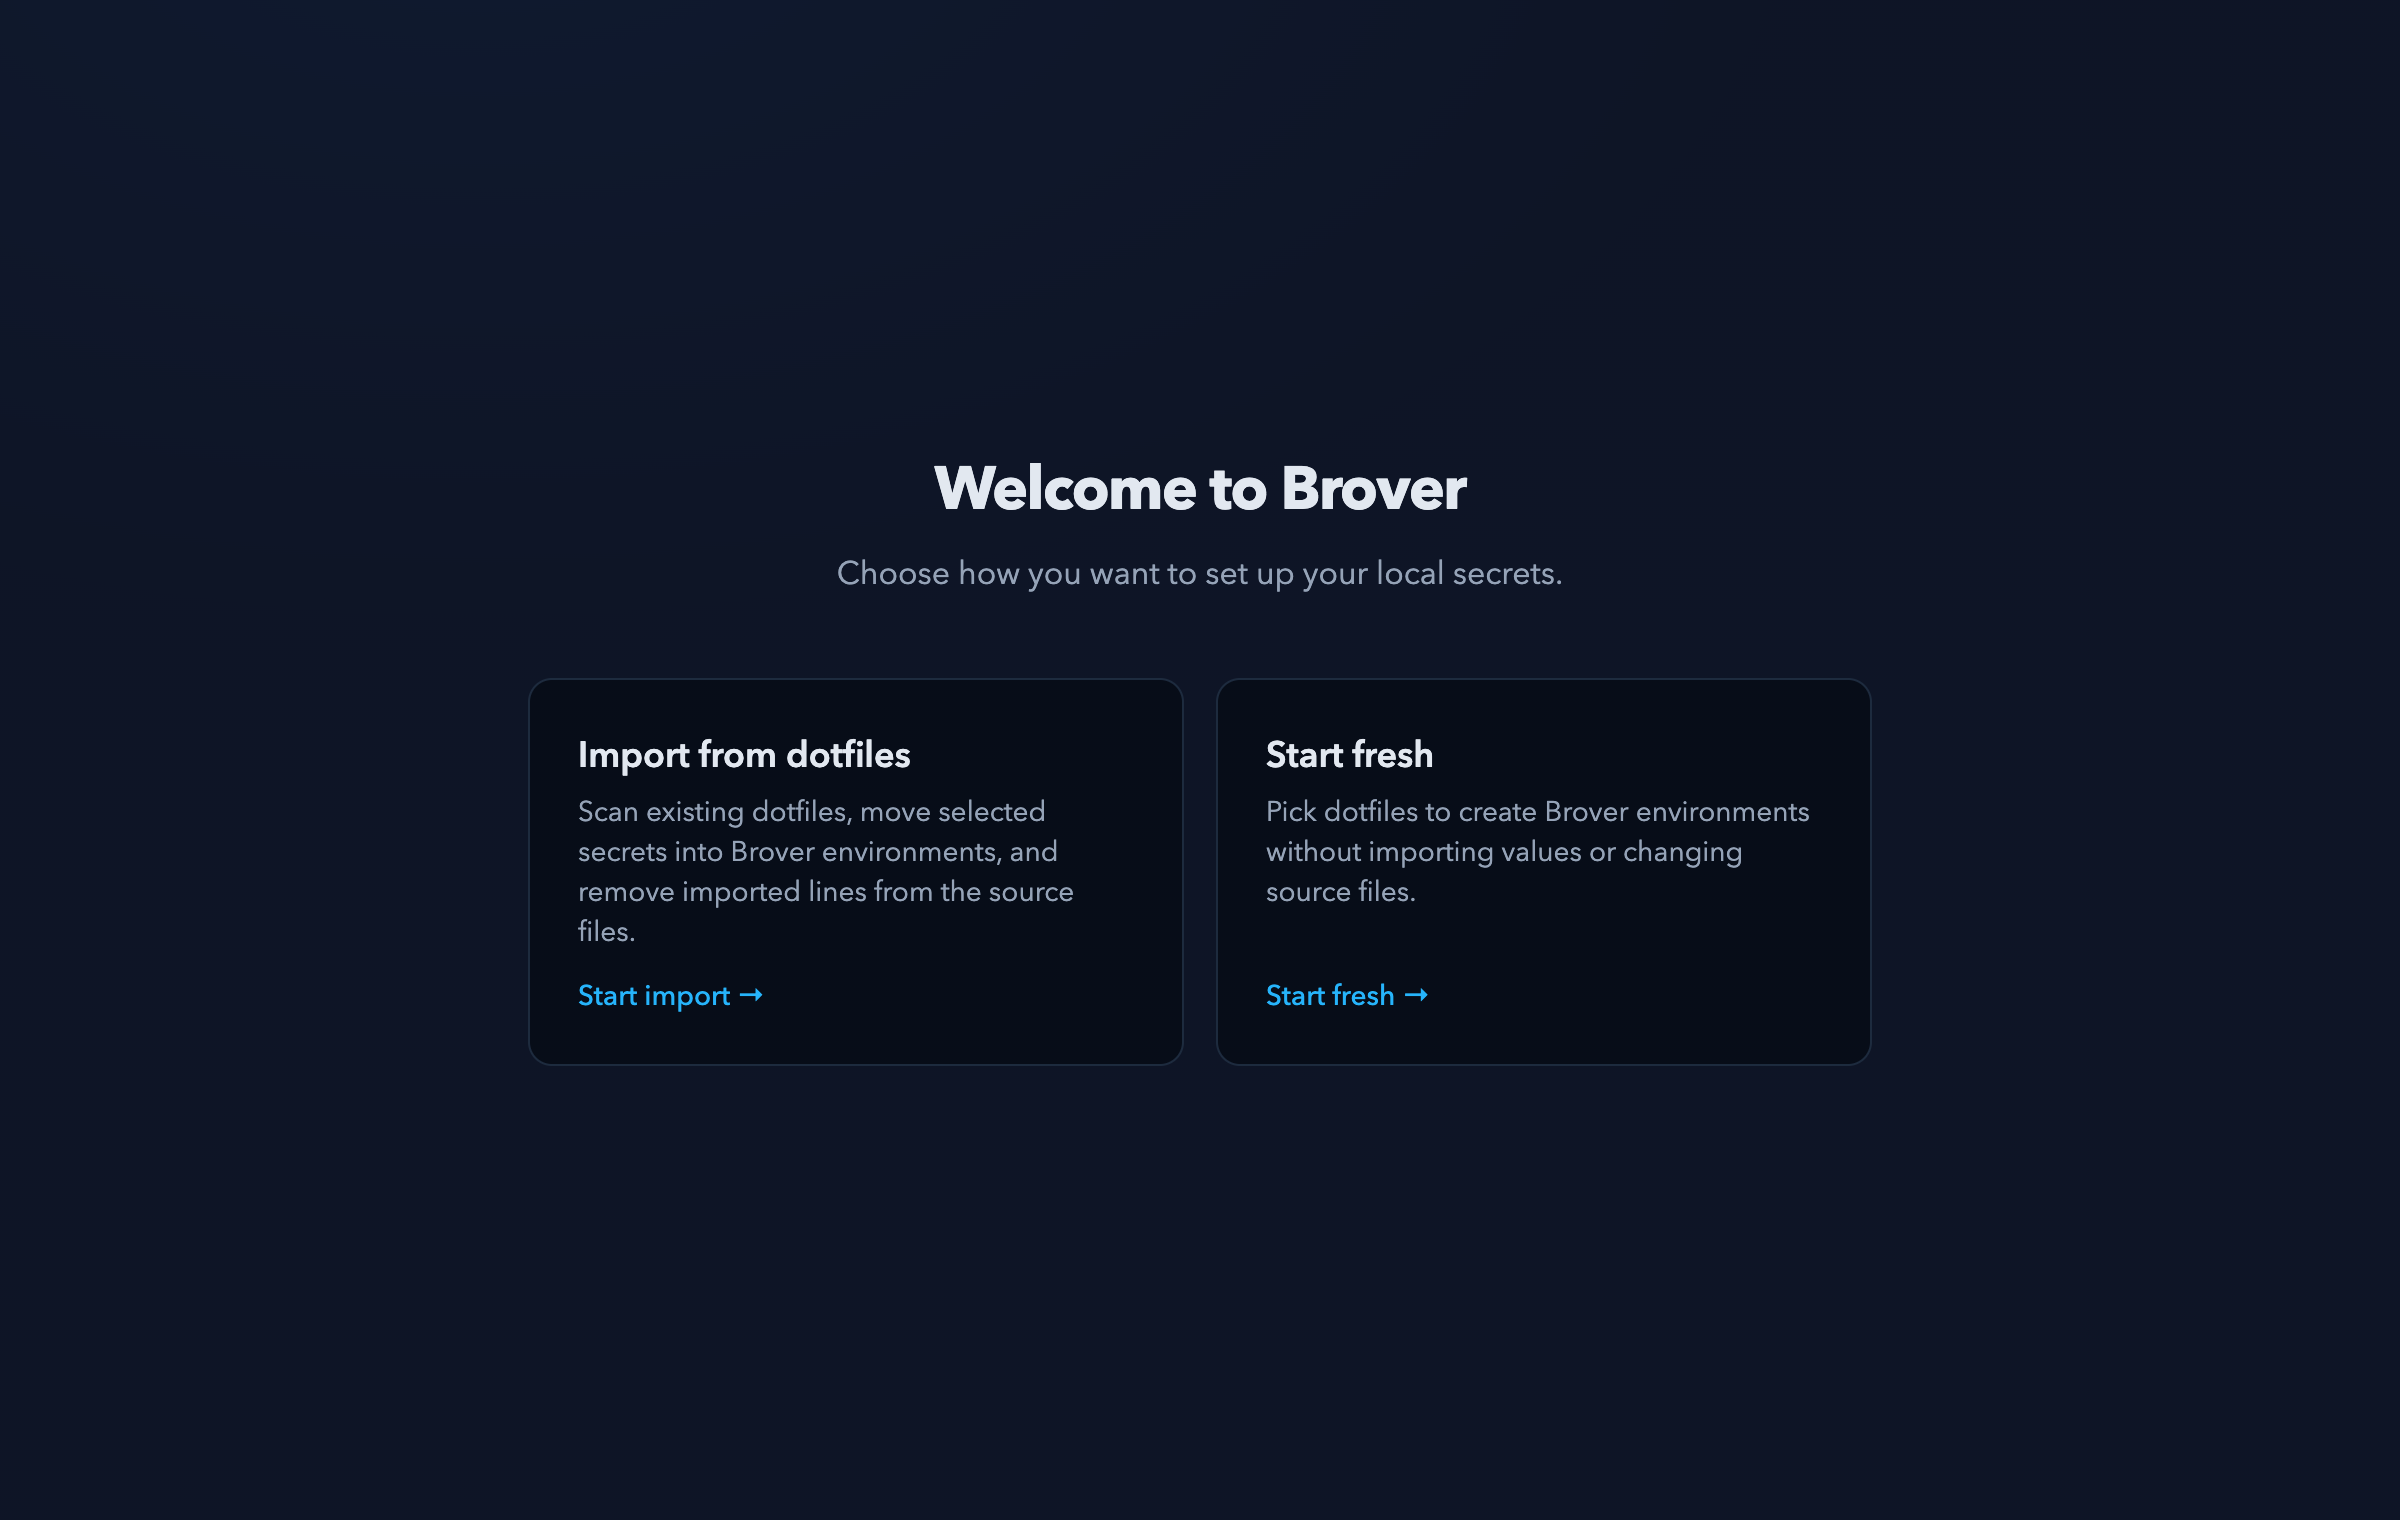
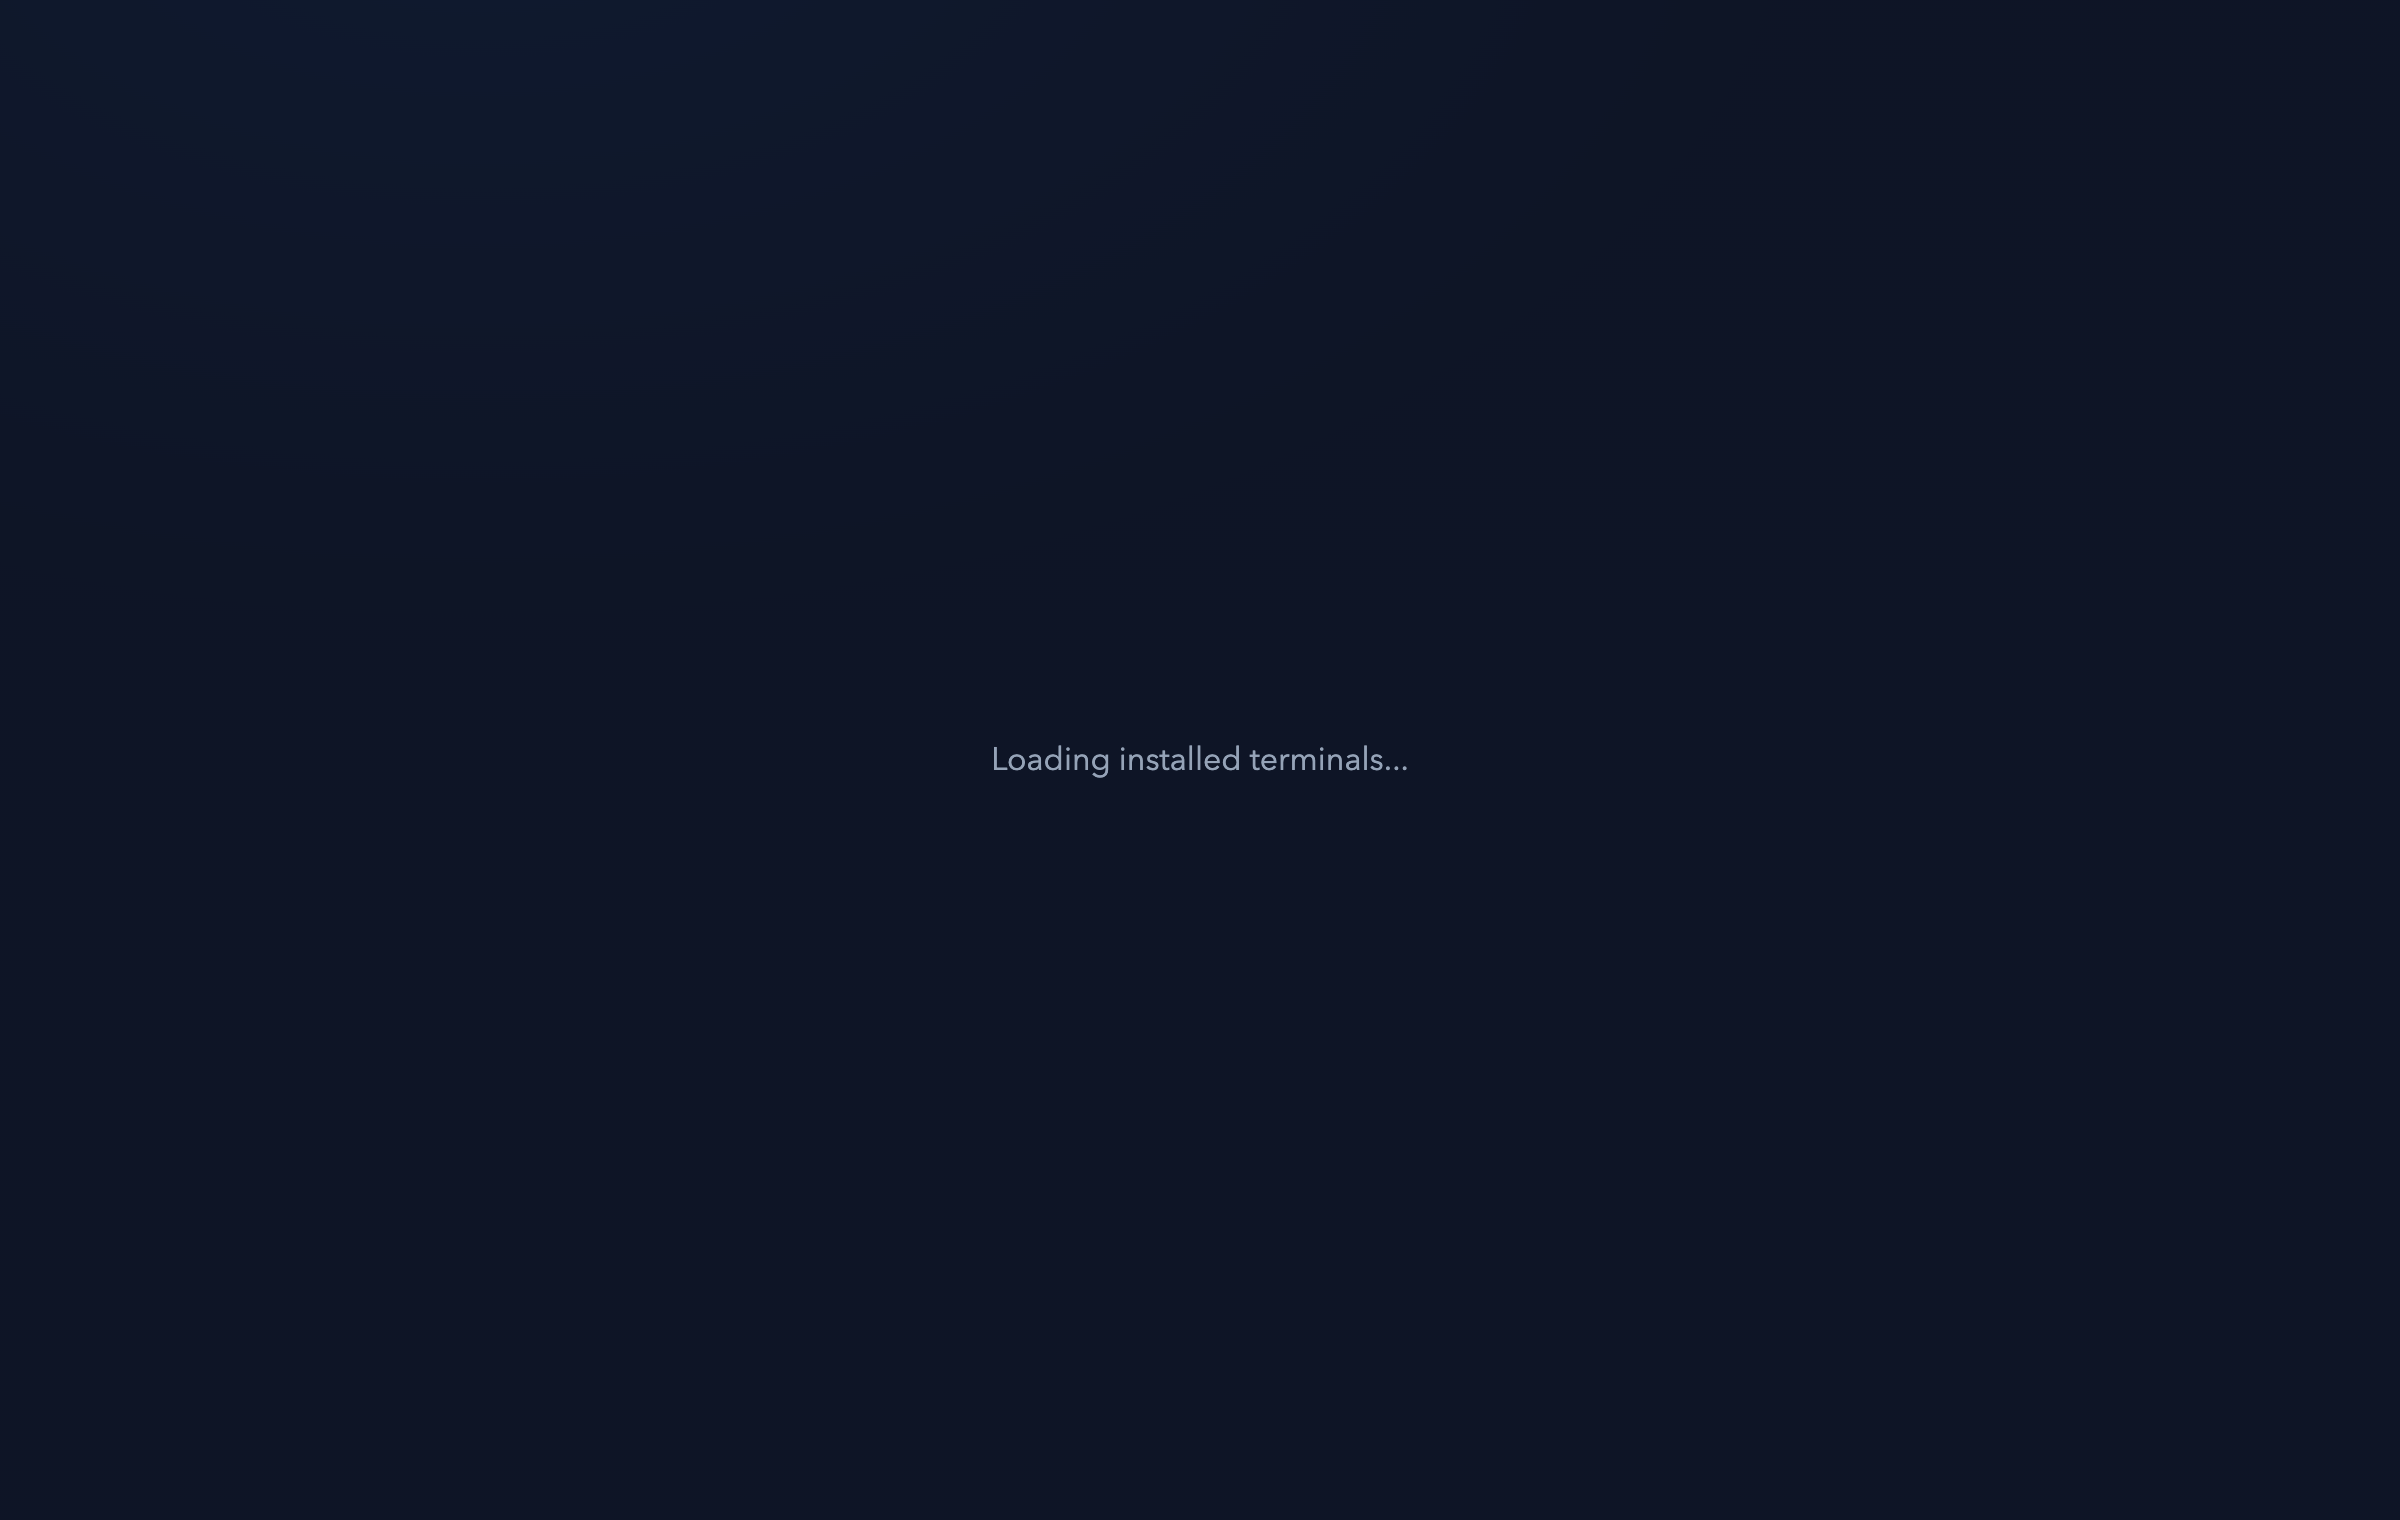
feat: splash art com scan loading animado (dots borda sentido horario)

diff --git a/index.html b/index.html
@@ -4,9 +4,92 @@
     <meta charset="UTF-8" />
     <meta name="viewport" content="width=device-width, initial-scale=1.0" />
     <title>brover</title>
+<style>
+      #app-loading {
+        position: fixed;
+        inset: 0;
+        display: flex;
+        align-items: center;
+        justify-content: center;
+        background: #070b12;
+        font-family: 'IBM Plex Sans', 'Avenir Next', 'Segoe UI', sans-serif;
+        z-index: 9999;
+        transition: opacity 200ms ease-out;
+        -webkit-app-region: drag;
+      }
+      #app-loading.fade-out {
+        opacity: 0;
+      }
+      .app-loading-inner {
+        display: flex;
+        flex-direction: column;
+        align-items: center;
+        justify-content: center;
+        gap: 24px;
+        padding: 96px;
+        -webkit-app-region: no-drag;
+      }
+      .app-loading-grid {
+        display: grid;
+        grid-template-columns: repeat(3, 6px);
+        gap: 8px;
+      }
+      .app-loading-dot {
+        width: 6px;
+        height: 6px;
+        border-radius: 50%;
+        background: #1d2b3f;
+      }
+      .app-loading-title {
+        font-size: 24px;
+        font-weight: 600;
+        color: #f1f5f9;
+        letter-spacing: 0.04em;
+        line-height: 1.2;
+      }
+      .app-loading-tagline {
+        font-size: 12px;
+        font-weight: 400;
+        color: #94a3b8;
+        letter-spacing: 0.02em;
+        margin-top: -16px;
+      }
+
+
+    </style>
   </head>
   <body>
+    <div id="app-loading">
+      <div class="app-loading-inner">
+        <div class="app-loading-grid">
+        <div class="app-loading-dot" style="grid-area:1/1"></div>
+        <div class="app-loading-dot" style="grid-area:1/2"></div>
+        <div class="app-loading-dot" style="grid-area:1/3"></div>
+        <div class="app-loading-dot" style="grid-area:2/1"></div>
+        <div class="app-loading-dot" style="grid-area:2/3"></div>
+        <div class="app-loading-dot" style="grid-area:3/1"></div>
+        <div class="app-loading-dot" style="grid-area:3/2"></div>
+        <div class="app-loading-dot" style="grid-area:3/3"></div>
+      </div>
+      <div class="app-loading-title">brover</div>
+      <div class="app-loading-tagline">Your local secrets manager</div>
+      </div>
+    </div>
     <div id="root"></div>
     <script type="module" src="/src/renderer/main.tsx"></script>
+    <script>
+      (function() {
+        var dots = document.querySelectorAll('.app-loading-dot');
+        var seq = [0, 1, 2, 4, 7, 6, 5, 3];
+        var i = 0;
+        var prev = -1;
+        setInterval(function() {
+          if (prev !== -1) dots[prev].style.background = '';
+          dots[seq[i]].style.background = 'rgba(31,182,255,0.3)';
+          prev = seq[i];
+          i = (i + 1) % seq.length;
+        }, 162);
+      })();
+    </script>
   </body>
 </html>

diff --git a/src/renderer/src/App.tsx b/src/renderer/src/App.tsx
@@ -3,6 +3,7 @@ import { Search } from 'lucide-react'
 import type { EnvMetadata, Environment } from '../../shared/models'
 import { ConfirmDialog } from './components/ui/confirmDialog'
 import { ToastProvider } from './components/ui/toaster'
+import HideSplash from './components/HideSplash'
 import { I18nProvider, useI18n } from './i18n'
 import OnboardingFlow from './features/onboarding/OnboardingFlow'
 import { useSecretsPanel } from './features/secrets/SecretsPanel'
@@ -247,7 +248,9 @@ export default function App() {
     return (
       <I18nProvider>
         <ToastProvider>
-          <OnboardingFlow onComplete={() => setOnboardingStatus('done')} />
+          <HideSplash>
+            <OnboardingFlow onComplete={() => setOnboardingStatus('done')} />
+          </HideSplash>
         </ToastProvider>
       </I18nProvider>
     )
@@ -256,7 +259,9 @@ export default function App() {
   return (
     <I18nProvider>
       <ToastProvider>
-        <AppShell />
+        <HideSplash>
+          <AppShell />
+        </HideSplash>
       </ToastProvider>
     </I18nProvider>
   )

diff --git a/src/renderer/src/components/HideSplash.tsx b/src/renderer/src/components/HideSplash.tsx
@@ -1,0 +1,12 @@
+import { useEffect } from 'react'
+
+export default function HideSplash({ children }: { children: React.ReactNode }) {
+  useEffect(() => {
+    const el = document.getElementById('app-loading')
+    if (!el) return
+    el.classList.add('fade-out')
+    el.addEventListener('transitionend', () => el.remove(), { once: true })
+  }, [])
+
+  return <>{children}</>
+}

diff --git a/.tscontext/code-context.md b/.tscontext/code-context.md
@@ -1,7 +1,7 @@
 # Code Context Summary
 
-Generated: 2026-06-09T20:05:49.605Z
-Files: 45
+Generated: 2026-06-10T00:30:28.135Z
+Files: 46
 
 ## `playwright.config.ts`
 
@@ -166,7 +166,7 @@ Classes:
 
 ## `src/renderer/src/App.tsx`
 
-Imports: `react`, `lucide-react`, `../../shared/models`, `./components/ui/confirmDialog`, `./components/ui/toaster`, `./i18n`, `./features/onboarding/OnboardingFlow`, `./features/secrets/SecretsPanel`, `./features/environments/EnvironmentsSidebar`, `./features/secrets/SecretsCenterPanel`, `./features/secrets/SecretsDetailsPanel`, `./features/terminals/TerminalSidebar`
+Imports: `react`, `lucide-react`, `../../shared/models`, `./components/ui/confirmDialog`, `./components/ui/toaster`, `./components/HideSplash`, `./i18n`, `./features/onboarding/OnboardingFlow`, `./features/secrets/SecretsPanel`, `./features/environments/EnvironmentsSidebar`, `./features/secrets/SecretsCenterPanel`, `./features/secrets/SecretsDetailsPanel`, `./features/terminals/TerminalSidebar`
 
 Exports: `default` (FunctionDeclaration)
 
@@ -177,6 +177,18 @@ Functions:
 React Components:
 - `App` [function] props: none
 - `AppShell` [function] props: none
+
+## `src/renderer/src/components/HideSplash.tsx`
+
+Imports: `react`
+
+Exports: `default` (FunctionDeclaration)
+
+Functions:
+- `HideSplash({ children }: { children: React.ReactNode }): import("/Users/eber/dev/brover/node_modules/@types/react/jsx-runtime").JSX.Element`
+
+React Components:
+- `HideSplash` [function] props: { children }: { children: React.ReactNode }
 
 ## `src/renderer/src/components/ui/button.tsx`
 
